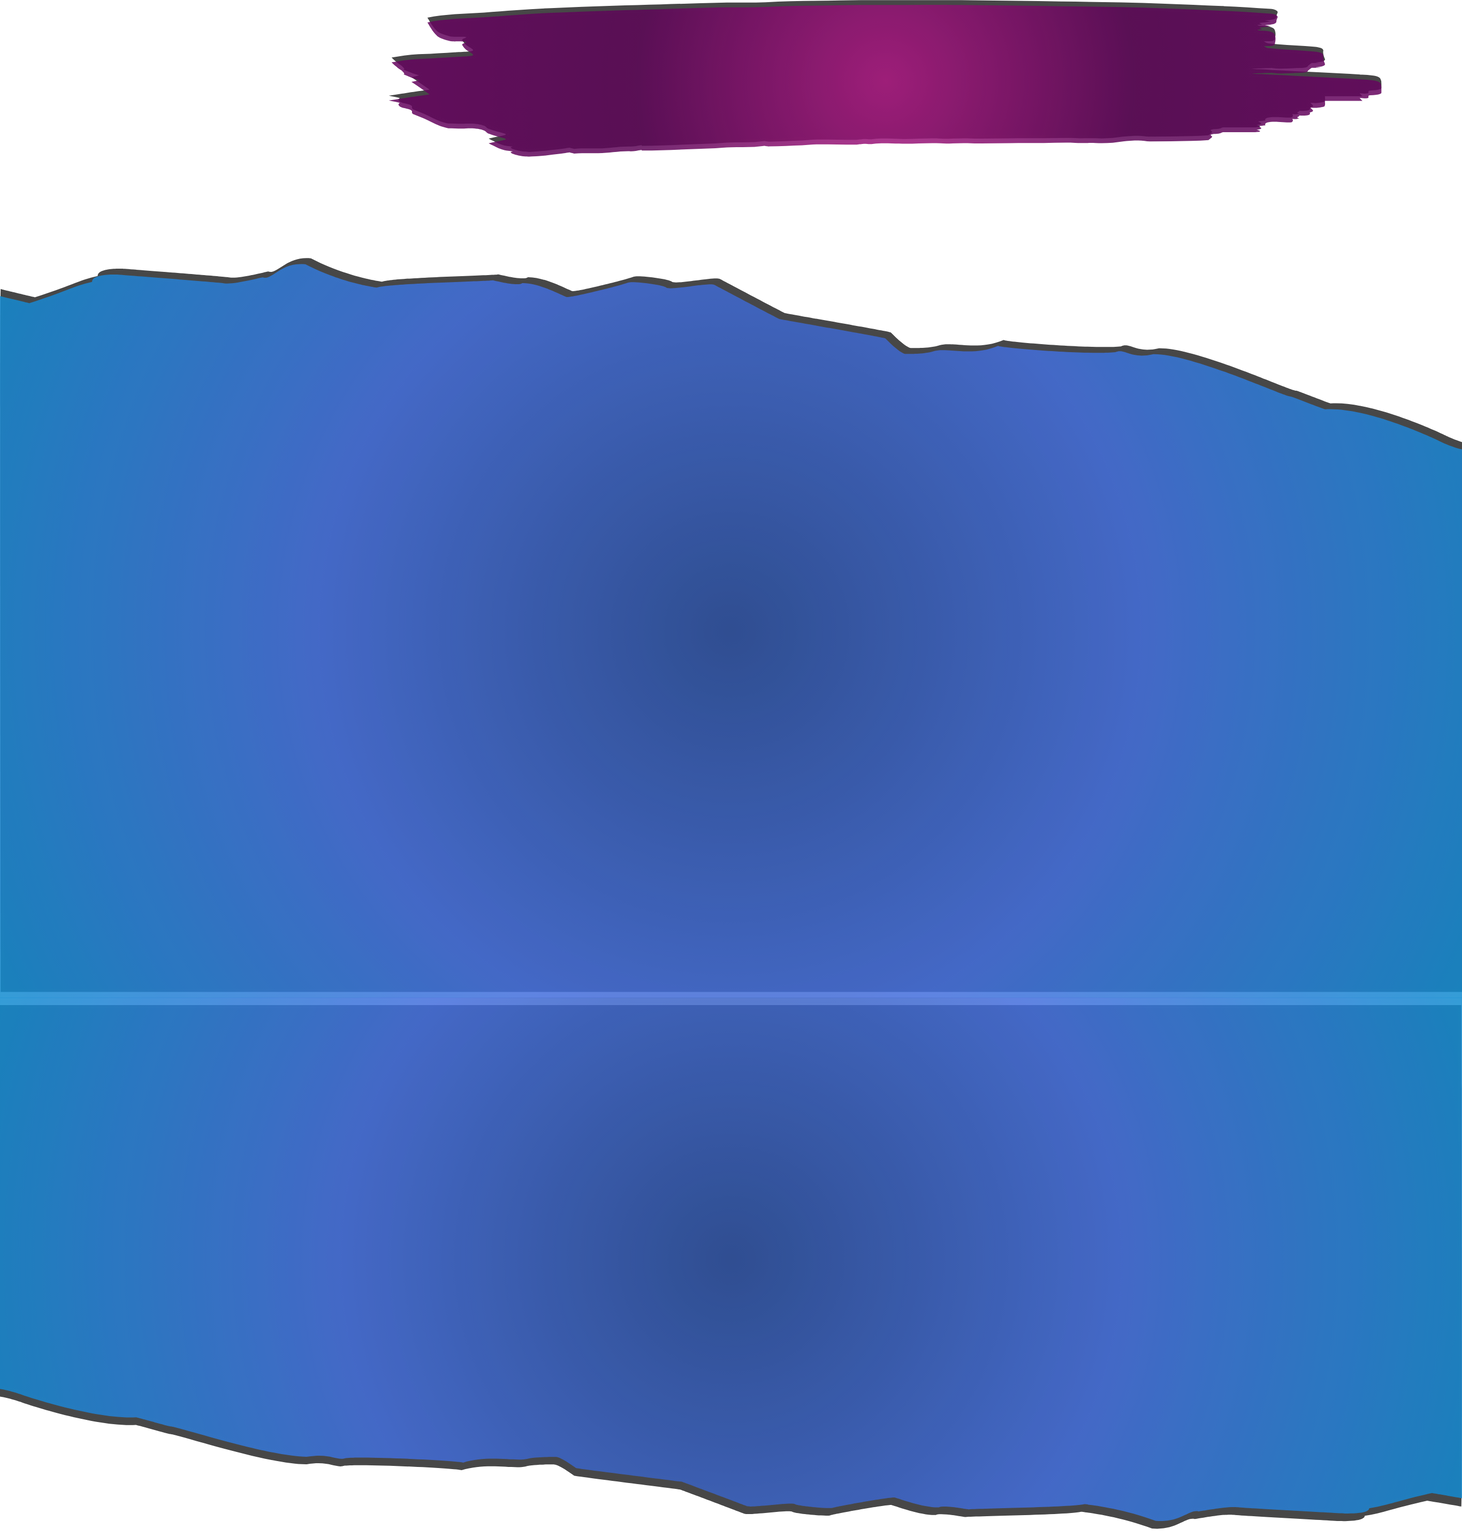
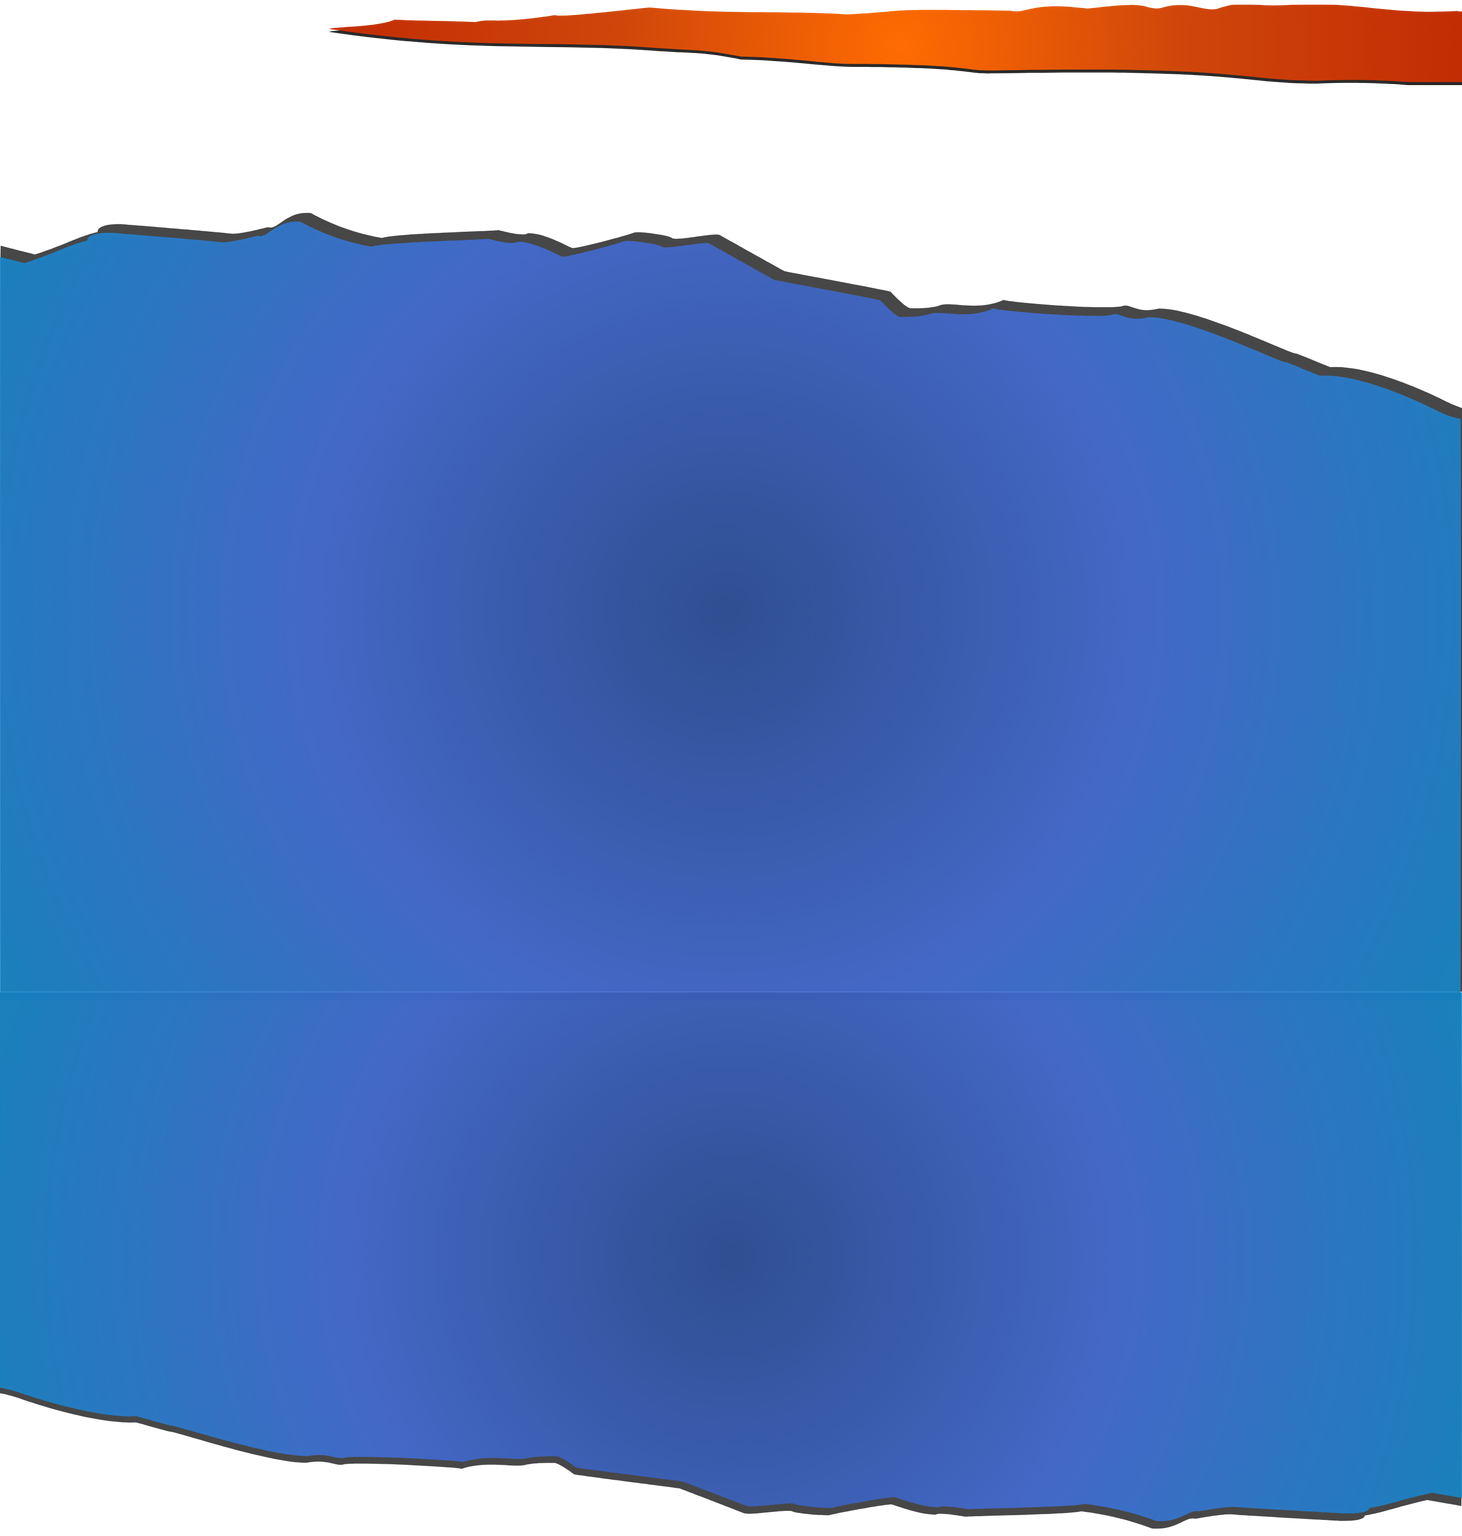
Further testing and responsive changes for new layout for main page

Changed region(s): [[0.0, 0.0, 1.0, 0.3125], [0.0, 0.625, 1.0, 0.6562], [0.0, 0.9062, 0.1231, 0.9375]]

diff --git a/app/components/RecentProjects.tsx b/app/components/RecentProjects.tsx
@@ -11,40 +11,34 @@ import {
 } from '@nextui-org/react'
 
 import { TextGenerateEffectWhileInView } from '@/components/ui/text-generate-effect-while-in-view'
-import divider from '../../public/images/divider-test.png'
-import phoneDivider from '../../public/images/hero-image-divider-test.png'
-import phoneDividerOne from '../../public/images/hero-image-divider-1-test.png'
+import divider from '../../public/images/divider-test-1.png'
+import phoneDivider from '../../public/images/hero-image-divider-1-test.png'
 import Link from 'next/link'
 
 const header = 'Recent Projects'
 
 // TODO: Fix hover scale for medium screens etc
+// Put on animation for projects
 
 export default function RecentProjects() {
   return (
     <>
-      <main className="relative pb-10 md:pb-14 xl:pb-48 2xl:pb-96">
+      <main className="relative pb-10 sm:pb-0">
         <Image
           src={divider}
           width={4098}
           height={2304}
           alt="divider and background"
-          className="absolute top-0 left-0 w-full h-auto object-cover z-0 hidden sm:block"
+          className="absolute top-0 left-0 w-full h-auto object-cover z-0"
         />
-        <Image
+
+        {/* <Image
           src={phoneDivider}
           width={1080}
           height={1920}
-          alt="mobile divider and background"
-          className="absolute top-0 left-0 w-full h-auto object-cover z-0 sm:hidden"
-        />
-        <Image
-          src={phoneDividerOne}
-          width={1080}
-          height={1920}
           alt="second mobile divider and background"
-          className="absolute top-[40rem] left-0 w-full h-auto object-cover z-0 sm:hidden"
-        />
+          className="absolute top-[35rem] sm:top-[45rem] md:top-[50rem] left-0 w-full h-auto object-cover z-0 lg:hidden"
+        /> */}
         <div className={`${titan.className} relative z-10`}>
           <div className="relative w-full overflow-hidden">
             <motion.div
@@ -61,7 +55,7 @@ export default function RecentProjects() {
               {[...Array(5)].map((_, index) => (
                 <h1
                   key={index}
-                  className="ps-2 sm:ps-8 xl:ps-6 pe-4 pt-4 sm:pt-6 xl:pt-2 sm:mb-4 2xl:mb-6 text-center sm:text-left dark:text-zinc-300 text-stone-800 dark:drop-shadow-[6px_6px_0px_#004aad] drop-shadow-[6px_6px_0px_#66045f] font-bold z-index mt-24 xl:mt-32 6xl:mt-56"
+                  className="ps-2 sm:ps-8 xl:ps-6 pe-4 pt-4 sm:pt-6 xl:pt-2 sm:mb-4 2xl:mb-6 text-center sm:text-left dark:text-zinc-300 text-stone-800 dark:drop-shadow-[6px_6px_0px_#004aad] drop-shadow-[6px_6px_0px_#66045f] font-bold z-index mt-10 xl:mt-24 6xl:mt-56"
                   id="recent-projects"
                 >
                   <TextGenerateEffectWhileInView
@@ -74,7 +68,7 @@ export default function RecentProjects() {
             </motion.div>
           </div>
         </div>
-        <div className="max-w-[1200px] xl:max-w-screen-2xl 6xl:max-w-[2500px] gap-4 grid grid-cols-12 grid-rows-2 px-6 mx-auto mt-10 xl:mt-32 pb-6">
+        <div className="max-w-[1200px] xl:max-w-screen-2xl 6xl:max-w-[2500px] gap-4 grid grid-cols-12 grid-rows-2 px-6 mx-auto mt-10 xl:mt-14 pb-6">
           <Card className="col-span-12 lg:col-span-7 h-[300px] sm:h-[400px] md:h-[450px] lg:h-[400px] 2xl:h-[500px] 6xl:h-[800px] dark:bg-transparent/80 bg-transparent/70">
             <CardHeader className="absolute z-10 top-1 flex-col !items-start">
               <p className="text-tiny dark:text-white/60 text-white/80 uppercase dark:font-bold">
@@ -109,7 +103,7 @@ export default function RecentProjects() {
                 <Button
                   radius="full"
                   size="sm"
-                  className="dark:bg-zinc-300 dark:text-stone-800 bg-[#8b00c4] text-zinc-300"
+                  className="dark:bg-zinc-300 dark:text-stone-800 bg-[#66045f] text-zinc-300"
                 >
                   View live
                 </Button>
@@ -178,7 +172,7 @@ export default function RecentProjects() {
                 <Button
                   radius="full"
                   size="sm"
-                  className="dark:bg-zinc-300 dark:text-stone-800 bg-[#8b00c4] text-zinc-300"
+                  className="dark:bg-zinc-300 dark:text-stone-800 bg-[#66045f] text-zinc-300"
                 >
                   View live
                 </Button>
@@ -219,7 +213,7 @@ export default function RecentProjects() {
                 <Button
                   radius="full"
                   size="sm"
-                  className="dark:bg-zinc-300 dark:text-stone-800 bg-[#8b00c4] text-zinc-300"
+                  className="dark:bg-zinc-300 dark:text-stone-800 bg-[#66045f] text-zinc-300"
                 >
                   View live
                 </Button>

diff --git a/app/components/Hero.tsx b/app/components/Hero.tsx
@@ -7,7 +7,6 @@ import { motion } from 'framer-motion'
 
 // Main page image
 import heroImage from '../../public/images/hero-image-new-test-14.png'
-import heroPhoneImage from '../../public/images/hero-image-phone-test.png'
 
 // Components
 import MainHeaderNav from './MainHeaderNav'
@@ -28,16 +27,13 @@ const words = ['Designer', 'Developer']
 export default function Hero() {
   return (
     <>
-      <main id="home" className="">
-        <MainHeaderNav />
-        {/* TODO: 
-                  - Fix wave emoji on large and 6xl screens
+      {/* TODO: 
                   - Maybe do a contact form modal
-                  - Recent Projects on Hero Screen/change "projects" to recent projects button - view all projects button in Recent projects component
-                  - Make flip words a little smaller for mobile screens
                   - look at putting in a breadcrumb for the navbar at the bottom of the hero page
          */}
-        <div className="pt-20 sm:pt-16 lg:pt-20 2xl:pt-20 6xl:pt-44 xl:max-w-6xl 2xl:max-w-full space-y-3 2xl:space-y-4 flex flex-col items-center justify-center font-normal dark:font-bold z-index">
+      <main id="home">
+        <MainHeaderNav />
+        <div className="pt-20 sm:pt-16 lg:pt-20 6xl:pt-64 space-y-4 flex flex-col items-center justify-center font-normal dark:font-bold z-index">
           <div className={titan.className}>
             <TextGenerateEffectWithWave
               words={firstLine}
@@ -59,12 +55,12 @@ export default function Hero() {
               ease: 'easeInOut',
             }}
             animate={{ opacity: 1 }}
-            className="pt-4 text-center sm:text-left 6xl:text-3xl"
+            className="pt-4 text-center ps-4 pe-4 sm:ps-0 sm:pe-0 6xl:text-3xl"
           >
-            <button className="border-3 border-stone-800 rounded-xl bg-[#66045f] transition-all duration-1000 dark:hover:bg-stone-800 dark:hover:text-[#004aad] hover:bg-zinc-300 dark:text-zinc-300 text-stone-900 hover:text-[#004aad] drop-shadow-[4px_4px_0px_#1c1917] py-3 px-3 sm:px-4 sm:py-4 6xl:px-8 font-bold">
+            <button className="border-3 border-stone-800 rounded-xl bg-[#66045f] transition-all duration-1000 dark:hover:bg-stone-800 dark:hover:text-[#004aad] hover:bg-zinc-300 dark:text-zinc-300 text-stone-900 hover:text-[#004aad] drop-shadow-[4px_4px_0px_#1c1917] py-3 px-3 sm:px-4 sm:py-4 6xl:px-8 6xl:py-6 font-bold">
               <Link href="#recent-projects">Check recent projects</Link>
             </button>
-            <button className="border-3 border-stone-800 rounded-xl dark:bg-zinc-300 bg-stone-800 dark:text-[#004aad] text-[#004aad] transition-all duration-1000 hover:bg-zinc-300 dark:hover:bg-zinc-800 dark:hover:text-[#004aad] hover:text-[#004aad] drop-shadow-[5px_5px_0px_#1c1917] py-3 px-3 sm:px-4 sm:py-4 6xl:px-8 mx-2 lg:mx-4 font-bold">
+            <button className="border-3 border-stone-800 rounded-xl dark:bg-zinc-300 bg-stone-800 dark:text-[#004aad] text-[#004aad] transition-all duration-1000 hover:bg-zinc-300 dark:hover:bg-zinc-800 dark:hover:text-[#004aad] hover:text-[#004aad] drop-shadow-[5px_5px_0px_#1c1917] py-3 px-3 sm:px-4 sm:py-4 6xl:px-8 6xl:py-6 mx-2 lg:mx-4 my-4 sm:my-0 font-bold">
               <Link href="mailto:matt.ranford16@gmail.com">
                 Direct email message
               </Link>
@@ -85,19 +81,11 @@ export default function Hero() {
             width={4098}
             height={2304}
             alt="Photo of Matt"
-            className="hero-image hidden sm:block"
-          />
-          <Image
-            src={heroPhoneImage}
-            width={1080}
-            height={1920}
-            alt="Photo of Matt"
-            className="hero-image sm:hidden"
+            className="hero-image "
           />
         </motion.div>
-
         <div className={titan.className}>
-          <h2 className="ps-2 sm:ps-8 xl:ps-14 pe-4 pt-4 sm:pt-6 xl:pt-2 text-6xl sm:text-7xl md:text-[5.3rem] lg:text-[7rem] xl:text-[9rem] 2xl:text-[10.5rem] 6xl:text-[16rem] text-center sm:text-left dark:text-zinc-300 text-stone-800 dark:drop-shadow-[6px_6px_0px_#004aad] drop-shadow-[6px_6px_0px_#66045f] font-bold z-index">
+          <h2 className="ps-2 sm:ps-8 xl:ps-14 pe-4 pt-4 sm:pt-6 xl:pt-2 6xl:pt-32 text-6xl sm:text-7xl md:text-[5.3rem] lg:text-[7rem] xl:text-[9rem] 2xl:text-[10.5rem] 6xl:text-[18rem] text-center sm:text-left dark:text-zinc-300 text-stone-800 dark:drop-shadow-[6px_6px_0px_#004aad] drop-shadow-[6px_6px_0px_#66045f] font-bold z-index">
             <motion.span
               initial={{ opacity: 0 }}
               transition={{

diff --git a/components/ui/text-generate-effect.tsx b/components/ui/text-generate-effect.tsx
@@ -23,7 +23,7 @@ export const TextGenerateEffect = ({
     large:
       'text-lg sm:text-xl md:text-2xl lg:text-3xl xl:text-4xl 2xl:text-5xl',
     xlarge:
-      'text-[1.38rem] sm:text-[1.52rem] md:text-4xl lg:text-6xl xl:text-5xl 2xl:text-6xl 6xl:text-9xl drop-shadow-[2px_2px_0px_black] md:drop-shadow-[5px_5px_4px_#66045f] dark:drop-shadow-[5px_5px_4px_#292524]',
+      'text-[1.38rem] sm:text-[1.52rem] md:text-4xl lg:text-6xl xl:text-5xl 2xl:text-6xl 6xl:text-7xl drop-shadow-[2px_2px_0px_black] md:drop-shadow-[5px_5px_4px_#66045f] dark:drop-shadow-[5px_5px_4px_#292524]',
   }
 
   useEffect(() => {

diff --git a/app/components/Navbar.tsx b/app/components/Navbar.tsx
@@ -82,7 +82,7 @@ export default function Navbar() {
             <MainHeaderNav />
           </div>
           <div className="flex justify-end">
-            <span className="lg:hidden pt-2 md:pt-0 pe-2 sm:pe-4">
+            <span className="lg:hidden pe-2 sm:pe-4">
               <button
                 className={`hamburger hamburger--collapse ${
                   isOpen ? 'is-active' : ''

diff --git a/app/components/MainHeaderNav.tsx b/app/components/MainHeaderNav.tsx
@@ -12,7 +12,7 @@ export default function MainHeaderNav() {
   return (
     <>
       <div className={titan.className}>
-        <h1 className="ps-4 sm:ps-6 xl:ps-10 pt-2 sm:pt-4 xl:pt-0 z-index">
+        <h1 className="ps-4 sm:ps-6 xl:ps-10 sm:pt-4 xl:pt-0 z-index">
           <TypewriterEffect words={mainHeader} />
         </h1>
       </div>
